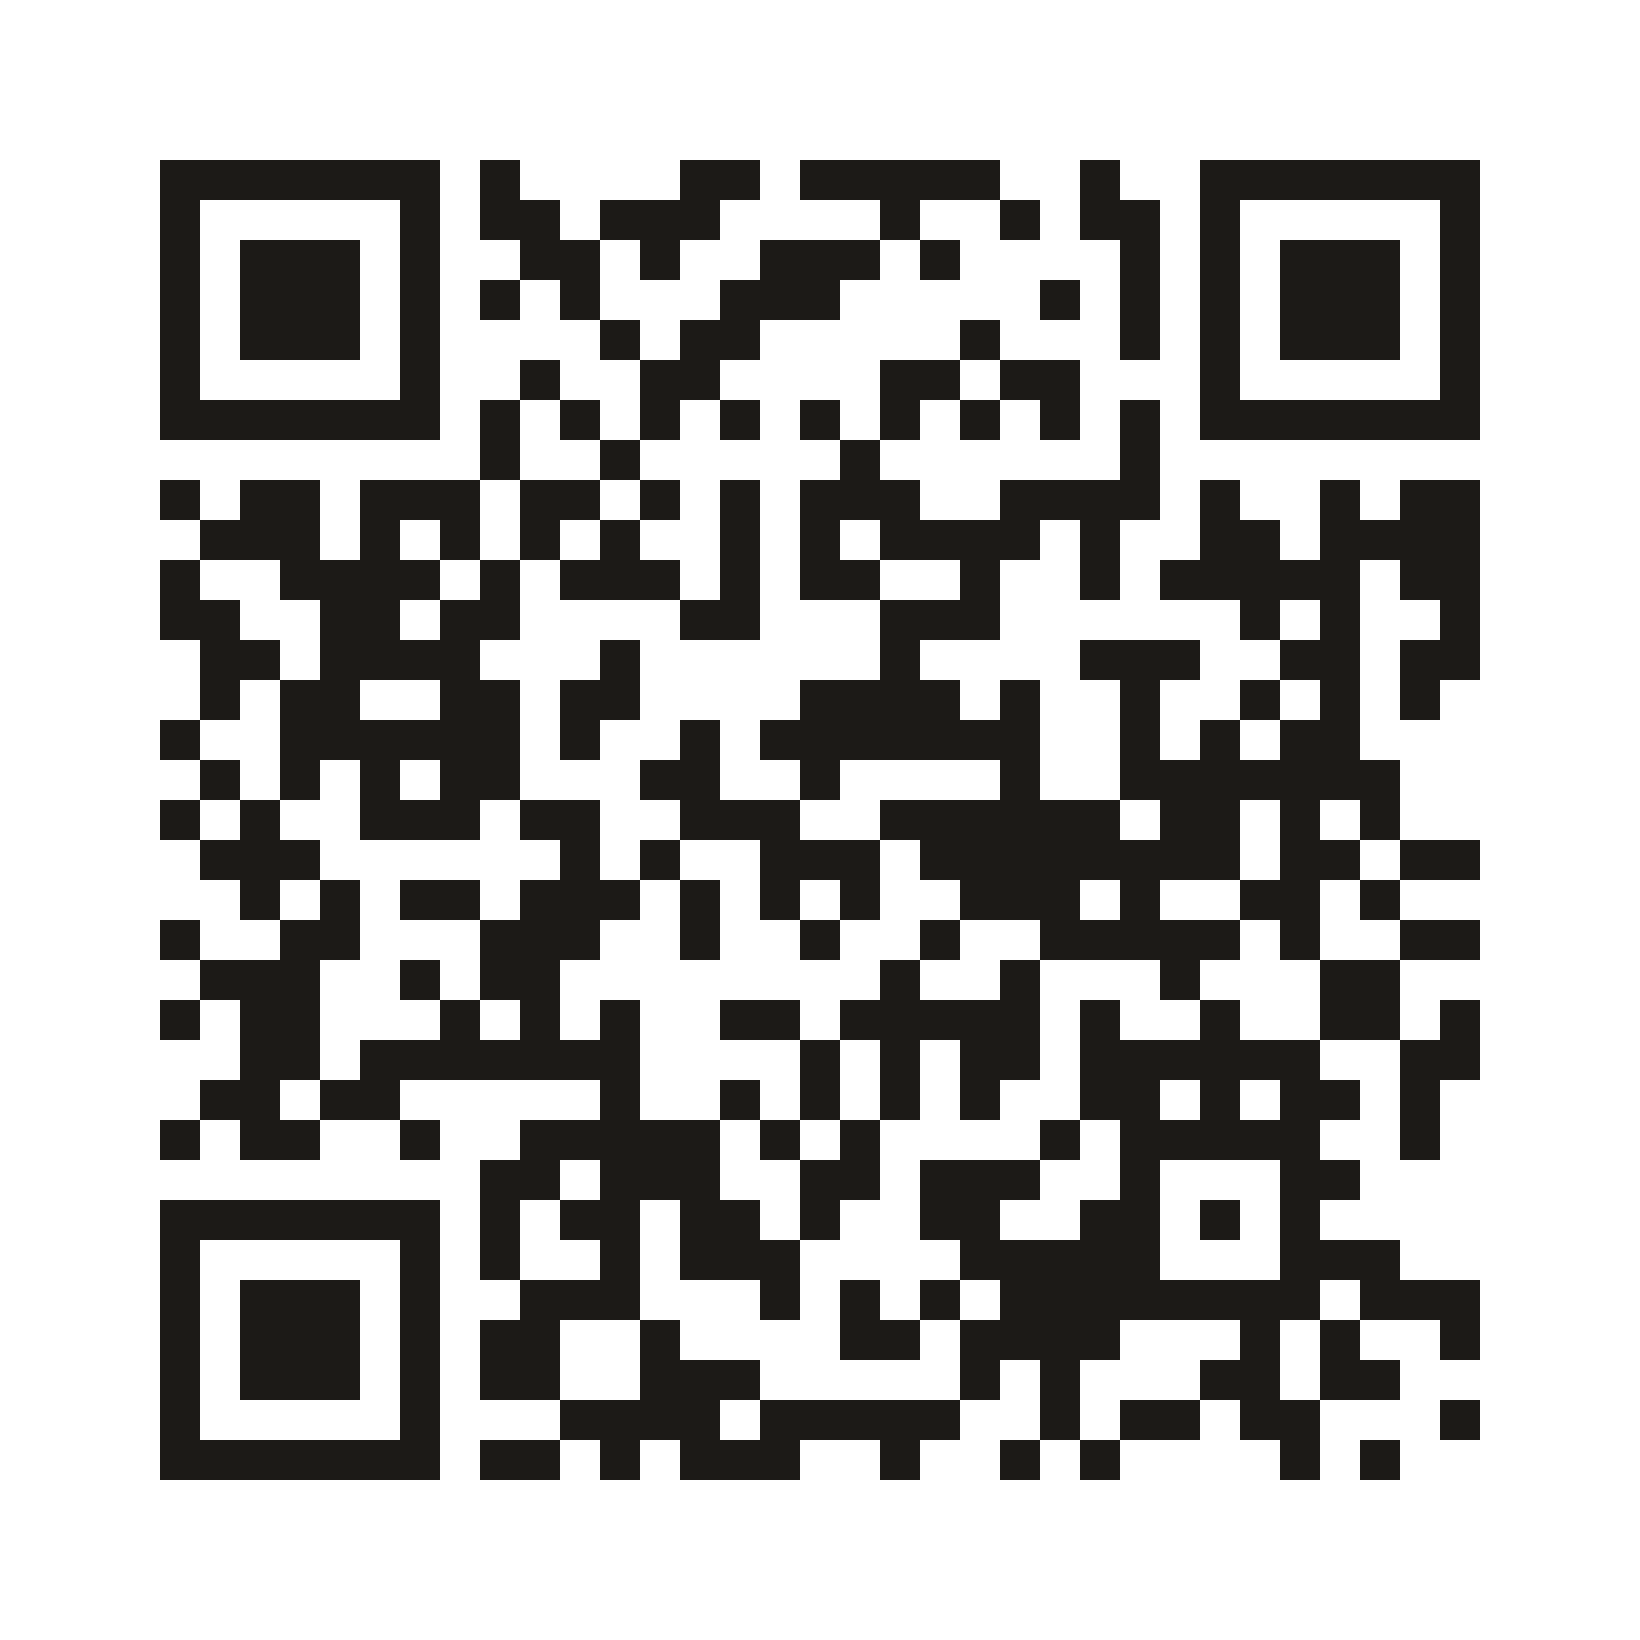
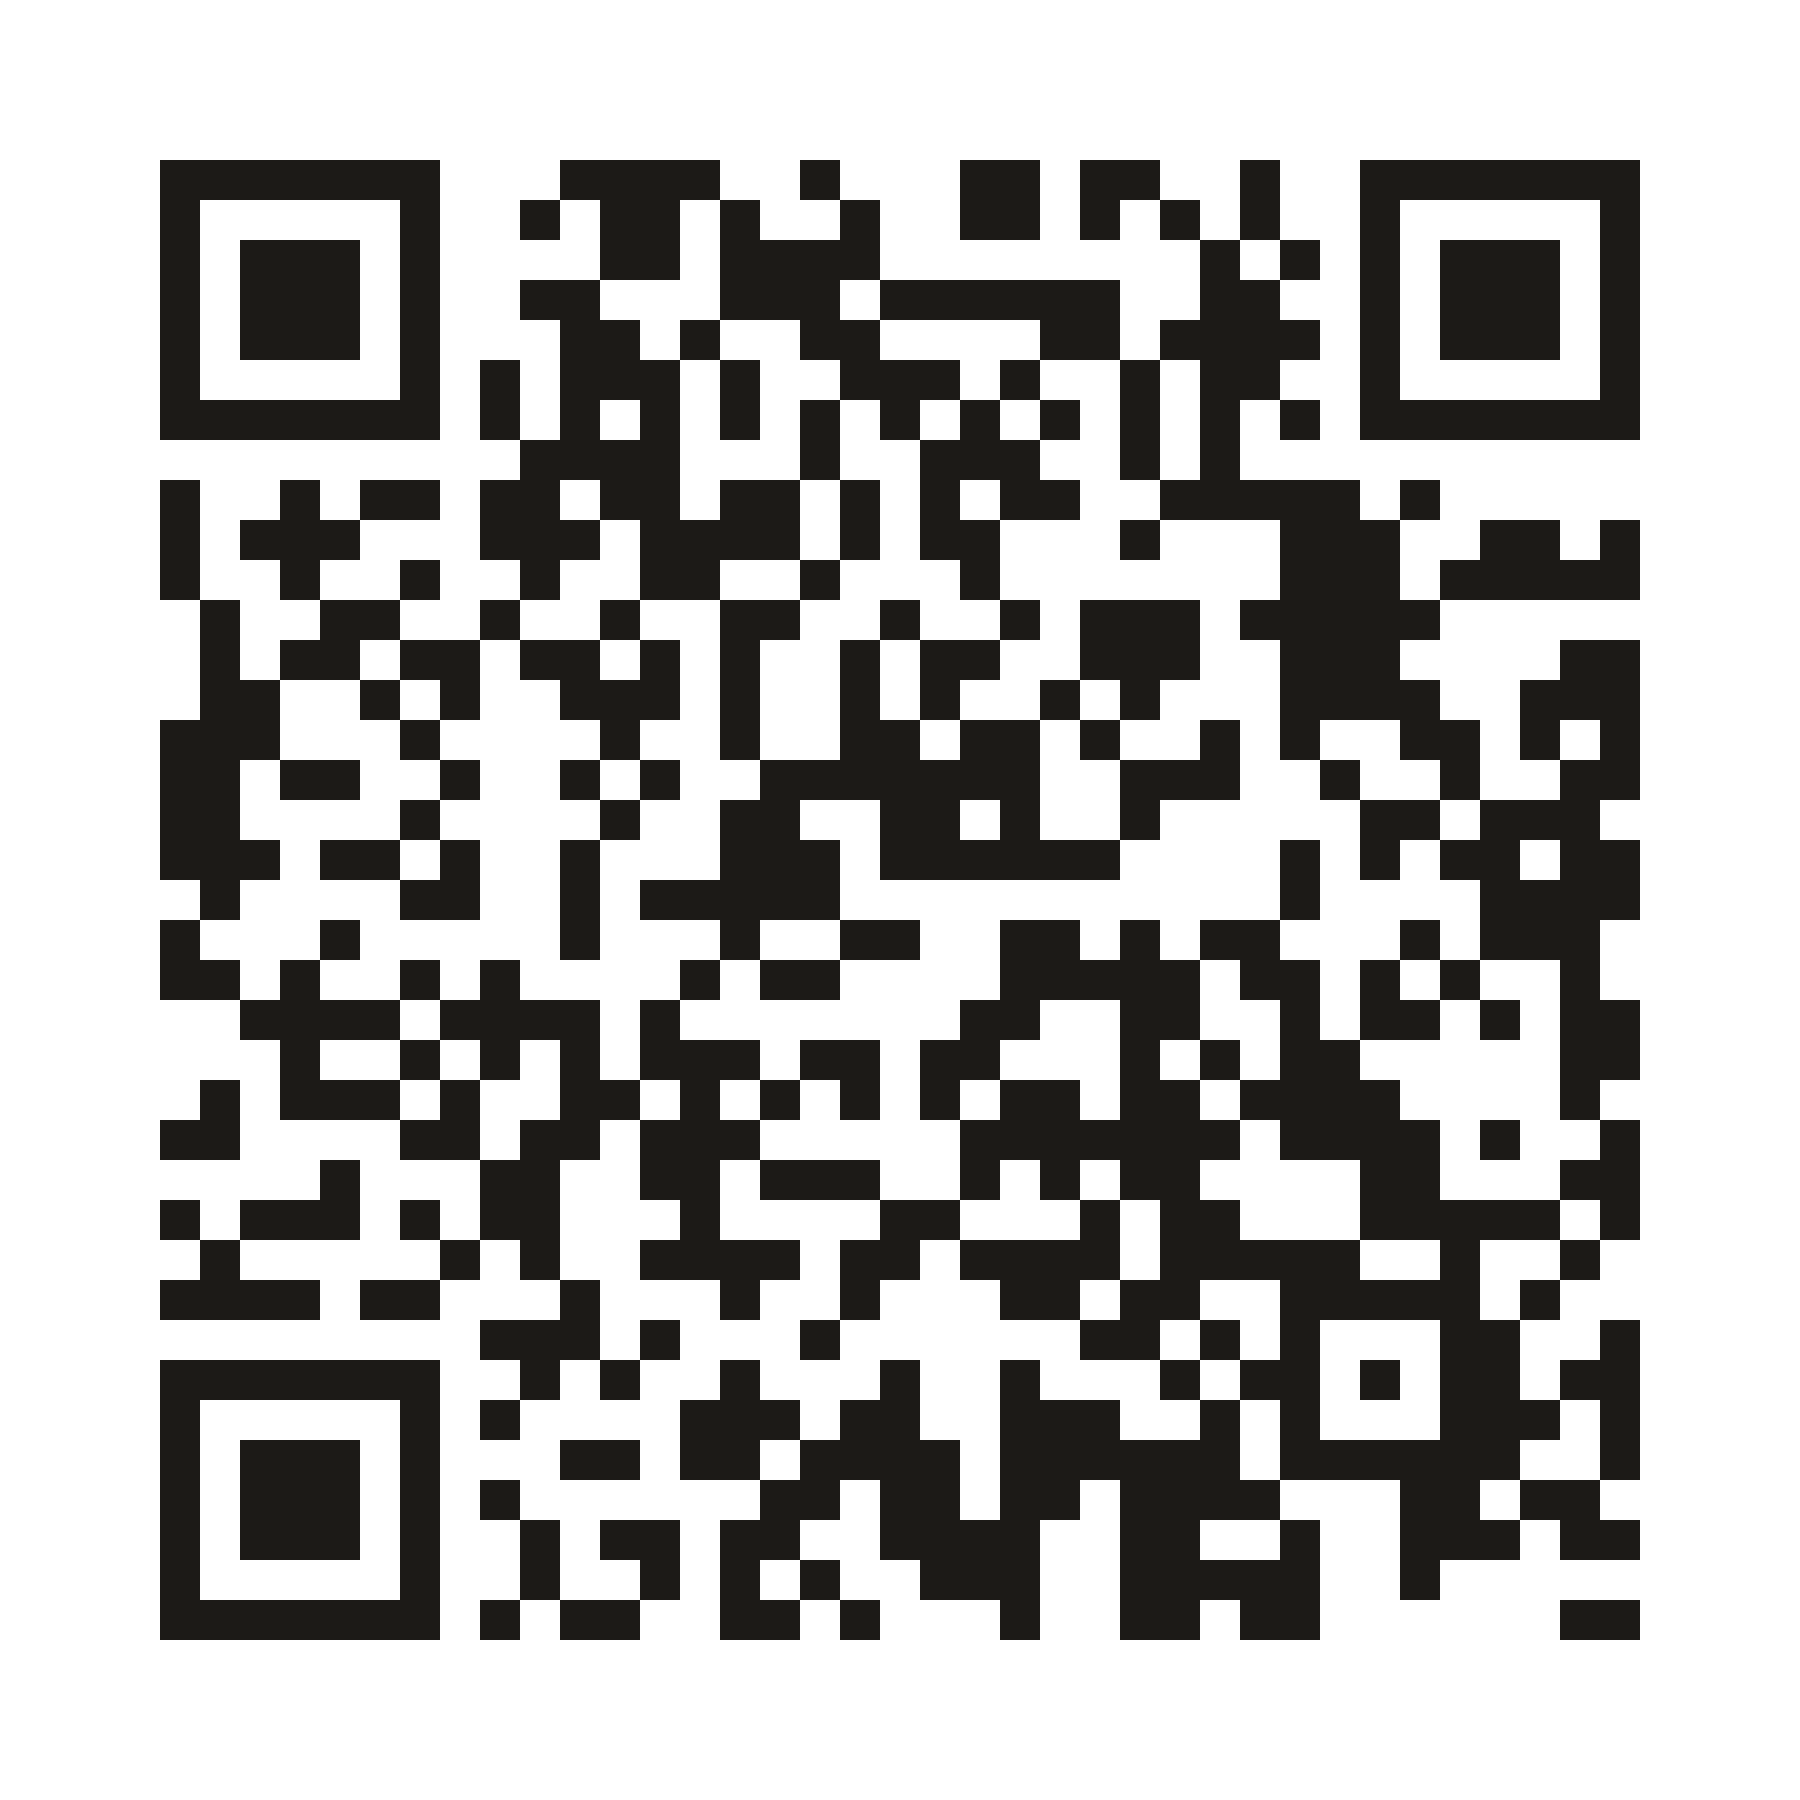
docs(p2): QR, README, reporte PMV3 y guion apuntan a mobile/ y a la Release v1.1.0

diff --git a/docs_entrega_final/poster/generar_figuras_poster.py b/docs_entrega_final/poster/generar_figuras_poster.py
@@ -76,7 +76,8 @@ def qr():
     destinos = {
         "qr_web_render.png": "https://quechua-web.onrender.com",
         "qr_repositorio.png": "https://github.com/omarpiero/TP_RAG_Quechua",
-        "qr_app_movil.png": "https://github.com/DalgomXD-byte/quechua-wanka-movil",
+        # P2 (ronda 2): la Release con el APK, no el repositorio: se escanea y se descarga.
+        "qr_app_movil.png": "https://github.com/DalgomXD-byte/quechua-wanka-movil/releases/tag/v1.1.0",
     }
     for archivo, url in destinos.items():
         codigo = qrcode.QRCode(error_correction=qrcode.constants.ERROR_CORRECT_M, box_size=40,

diff --git a/docs/evidencias/pmv3/BITACORA.md b/docs/evidencias/pmv3/BITACORA.md
@@ -76,3 +76,16 @@ COMMIT;   -- o ROLLBACK si la verificación no dio 31
 
 Las 6 consultas de la app del 20/11, 00:37–00:51 UTC (tabla de arriba), se pueden rotular igual si el
 equipo lo decide.
+
+## 2026-11-24 · P2: la app en el repositorio oficial
+
+- PR #1 en `DalgomXD-byte/quechua-wanka-movil`: `feat/pmv3-dos-modos` → `master` (fast-forward de
+  6 commits sobre `3c6e976`). `flutter analyze`: sin avisos. `flutter test`: 45/45.
+- La app también queda en `mobile/` de este repositorio, traída con `git subtree add` (conserva los
+  14 commits de su historial), como pidió Omar. `flutter analyze` y `flutter test` también pasan
+  desde `mobile/`.
+- Release `v1.1.0` (por publicar al fusionar el PR #1). Los APK no se suben al repositorio:
[2 lines of base64/hex data omitted]
+- `qr_app_movil.png` regenerado: apunta a la Release. README, `docs/18` y el guion del video
+  actualizados.

diff --git a/docs_entrega_final/video_u4/guion.md b/docs_entrega_final/video_u4/guion.md
@@ -116,8 +116,11 @@ HU-03/HU-07, consulta con cita, recorriendo el código en GitHub:
    `domain/entities/respuesta.py` (RN-03: sin abstención, respaldo ≥ 1).
 5. **Adaptadores de salida:** `adapters/out/recuperacion/indice_hibrido_lexico.py`,
    `adapters/out/generacion/gemini_generador.py`, `adapters/out/prediccion/predictor_sklearn.py`.
-6. **Composición:** `backend/src/infrastructure/contenedor.py`. En la app, `lib/infraestructura/contenedor.dart`:
+6. **Composición:** `backend/src/infrastructure/contenedor.py`. En la app, `mobile/lib/infraestructura/contenedor.dart`:
    el mismo puerto cumplido por la nube o por el teléfono.
+7. **La app en el mismo repositorio:** carpeta `mobile/` (traída con su historial) y la
+   [Release v1.1.0](https://github.com/DalgomXD-byte/quechua-wanka-movil/releases/tag/v1.1.0) con el
+   APK y su SHA-256; es el destino del QR del póster.
 
 ## Lista de tomas
 

diff --git a/README.md b/README.md
@@ -13,8 +13,9 @@ documental**, desplegados también en la nube:
 - API: <https://quechua-api.onrender.com> (`/docs`, `/api/estado`, `/api/vivo`)
 - Base: Neon PostgreSQL (AWS us-east-1). Redacción en la nube: Gemini 3.5 Flash-Lite.
 
-La aplicación móvil (PMV3, ADR-038) vive en
-[quechua-wanka-movil](https://github.com/DalgomXD-byte/quechua-wanka-movil). Tiene dos modos:
+La aplicación móvil (PMV3, ADR-038) está en [`mobile/`](mobile/) (traída con su historial desde
+[quechua-wanka-movil](https://github.com/DalgomXD-byte/quechua-wanka-movil)). El APK release está en la
+[Release v1.1.0](https://github.com/DalgomXD-byte/quechua-wanka-movil/releases/tag/v1.1.0), con su SHA-256. Tiene dos modos:
 
 - **En línea:** cliente de esta API.
 - **Sin conexión:** resuelve en el teléfono con los artefactos que aquí se generan con

diff --git a/docs/18_REPORTE_PMV3.md b/docs/18_REPORTE_PMV3.md
@@ -8,7 +8,8 @@
 
 | Dato | Valor |
 |---|---|
-| Repositorio de la app | `jamesSSC/quechua-wanka-movil`, rama `feat/pmv3-dos-modos` (fork de `DalgomXD-byte/quechua-wanka-movil@3c6e976`) |
+| Repositorio de la app | `mobile/` de este repositorio (con su historial, `git subtree`) y `DalgomXD-byte/quechua-wanka-movil` (`master`, PR #1 desde `feat/pmv3-dos-modos`) |
[1 lines of base64/hex data omitted]
 | Commits de la app | `e7005b5` (dos modos), `b3f4d64` (ícono), `ccb4e29` (arnés en el dispositivo) |
 | Backend de referencia | `omarpiero/TP_RAG_Quechua@8088193` |
 | Flutter / Dart | Flutter 3.44.9 (stable) |
